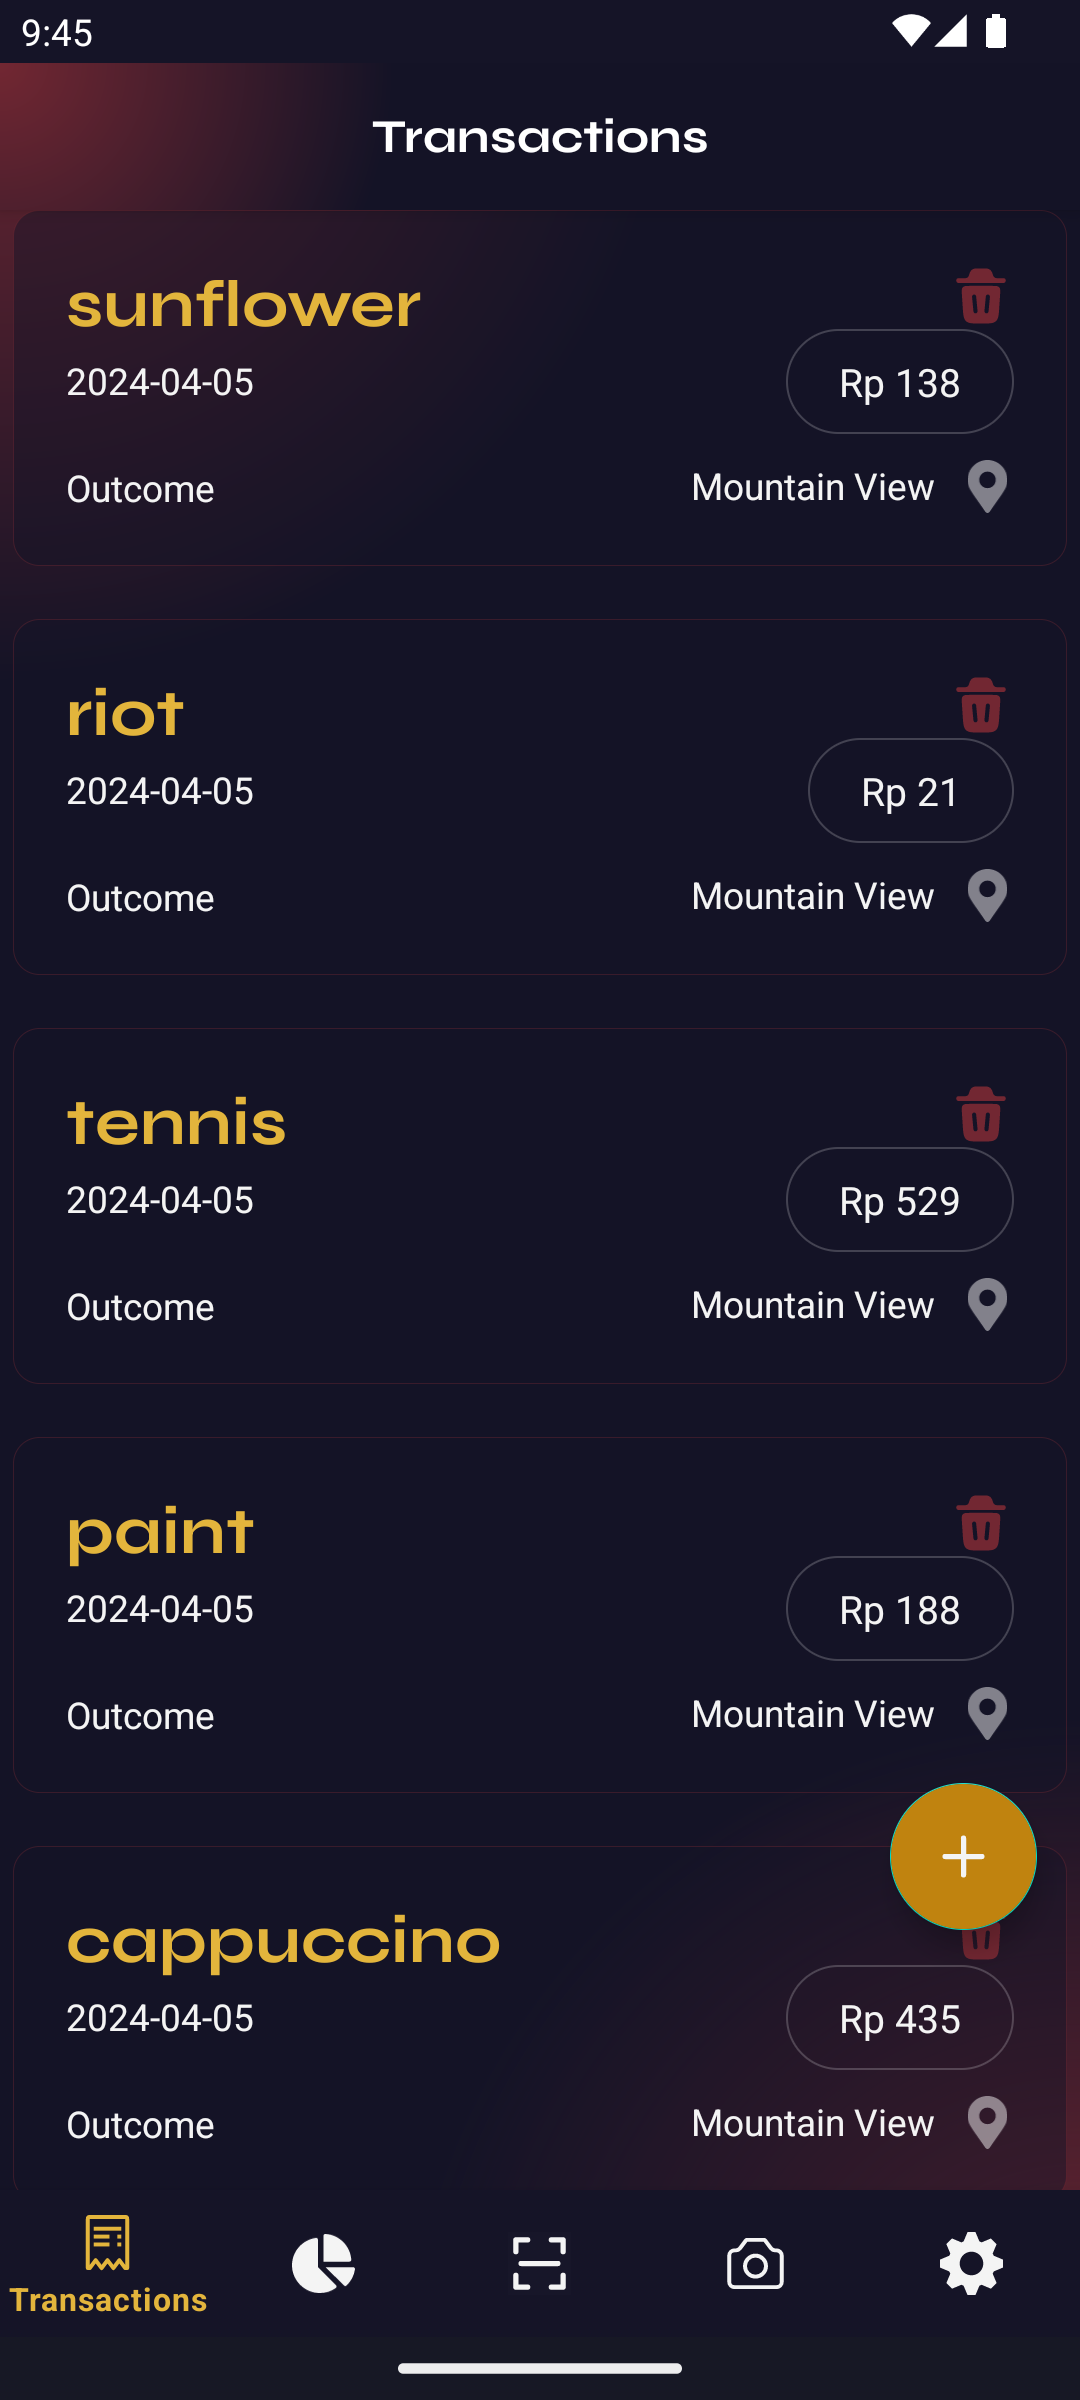
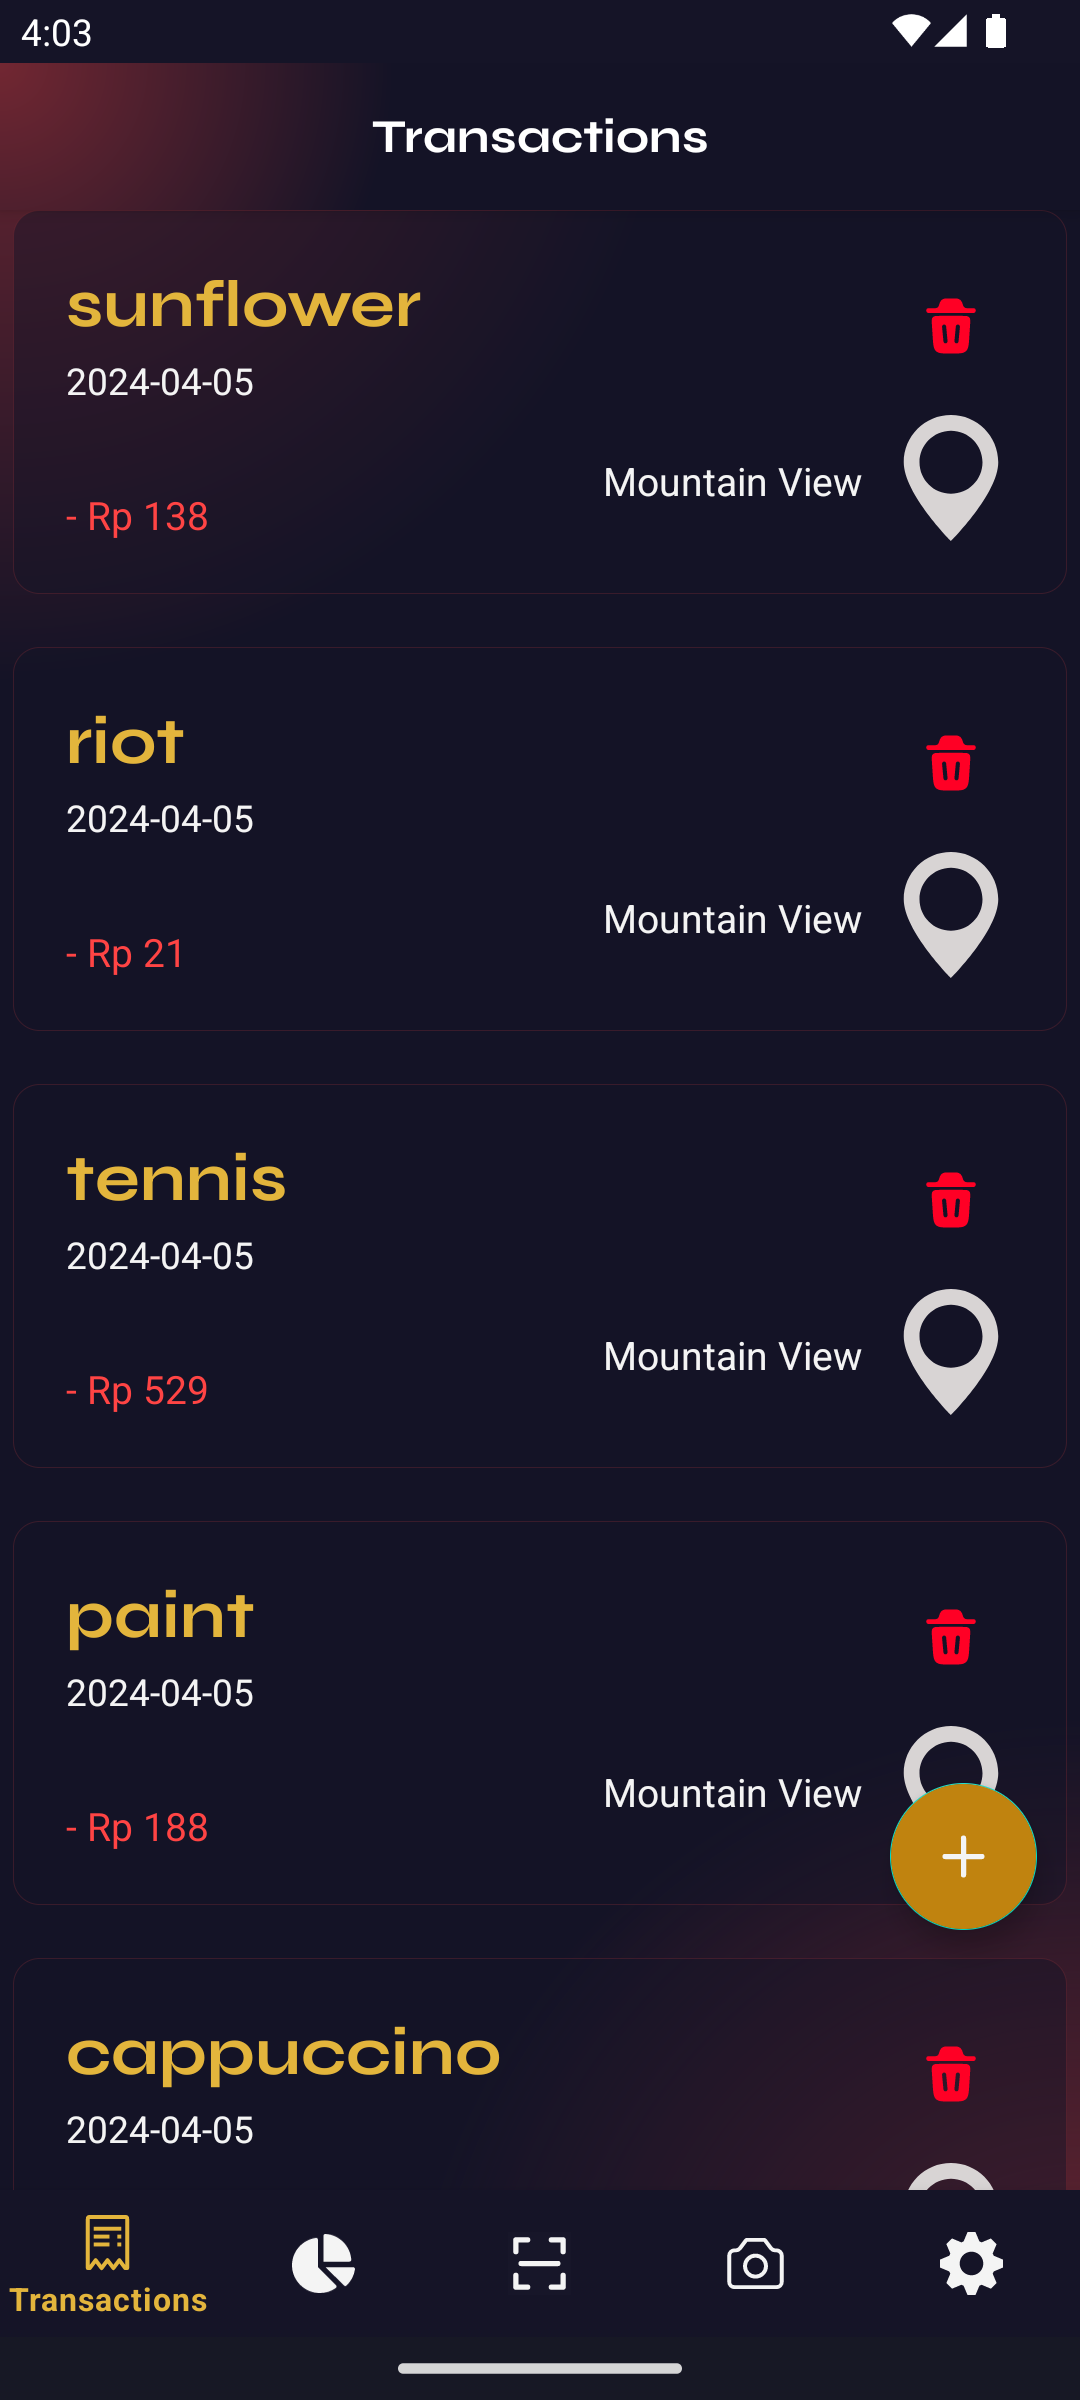
feat: Update Readme

diff --git a/README.md b/README.md
@@ -166,6 +166,11 @@ Sebagian besar mempermasalahkan text contrast dari elemen-elemen yang ada pada h
 
 <img src="./docs/loginacc.png" width="50%" height="50%">
 
+### Perbaikan Login
+Perbaikan dari login sudah memberikan no suggestion dengan tampilan layar yang diperbaiki sebagai berikut
+
+<img src="./docs/loginpage.png" width="50%" height="50%"> 
+
 ### Suggestion Add Transaction
 Dipermasalahkan ukuran input yang statik dari teks dan elemen.
 
@@ -192,6 +197,11 @@ Dipermasalahkan ukuran yang statik sehingga tidak bisa discale pada layar yang b
 
 <img src="./docs/scanacc.png" width="50%" height="50%">
 
+### Perbaikan Scan
+Diperbaiki halaman hingga tidak ada suggestion sebagai berikut
+
+<img src="./docs/scanfix.jpg" width="50%" height="50%">
+
 ### Suggestion Twibbon
 Dipermasalahkan elemen yang ukurannya statik, kontras warna, dan id elemen yang sama untuk beberapa elemen lainnya.
 
@@ -202,10 +212,19 @@ Pada umumnya dipermasalahkan elemen yang ukurannya statik sehingga tidak dapat d
 
 <img src="./docs/settingacc.png" width="50%" height="50%">
 
+### Perbaikan Setting
+Diperbaiki halaman setting hingga tidak ada suggestion
+
+<img src="./docs/settingfix.jpg" width="50%" height="50%">
+
 ### Suggestion Transaction
 Dipermasalahkan ukuran touch target, tidak adanya alt-text pada tombol delete, value yang sama untuk beberapa elemen lainnya, dan kontras warna.
 
 <img src="./docs/tranacc.png" width="50%" height="50%">
+
+### Perbaikan Transaction
+Diperbaiki halaman transaction hingga tidak ada suggestion
+
 
 ## Alokasi Waktu
 | NIM | Waktu Persiapan (Jam) | Waktu Pengerjaan (Jam) |
